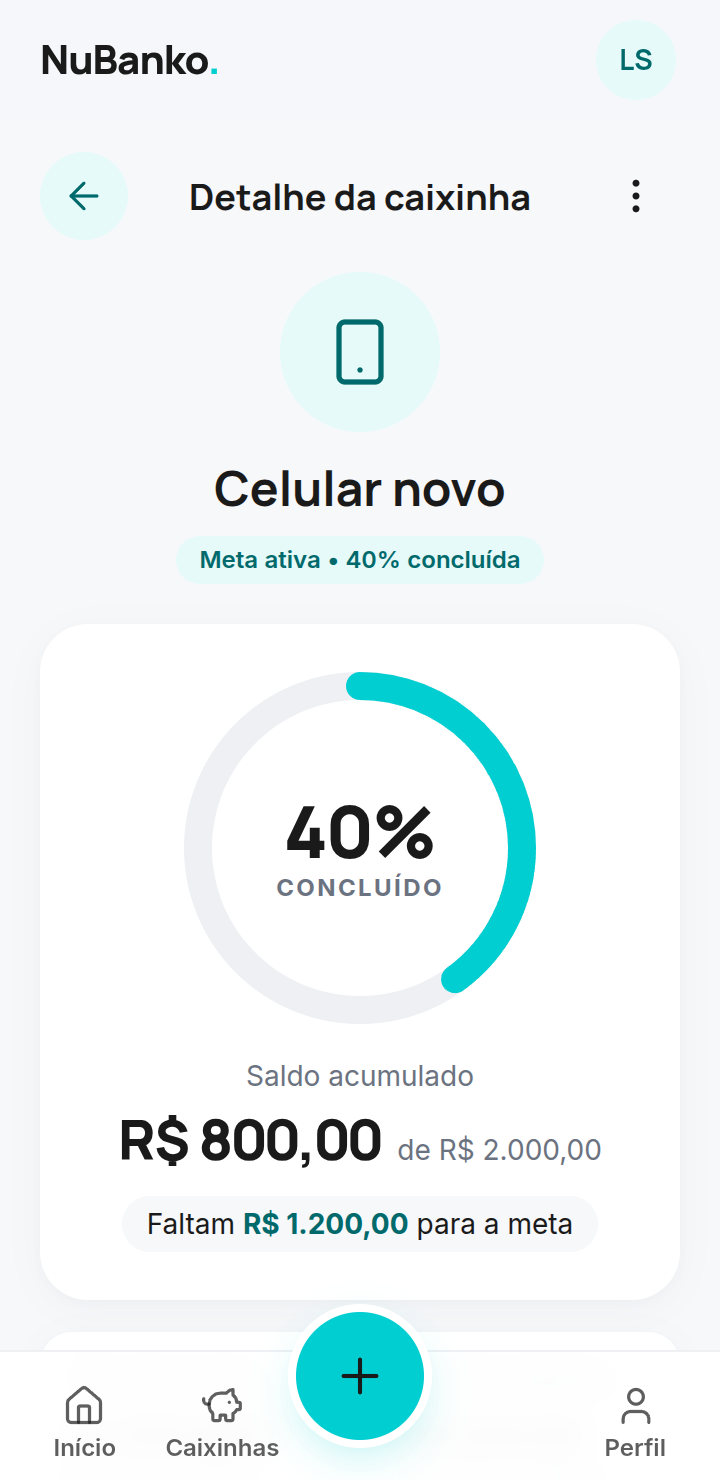
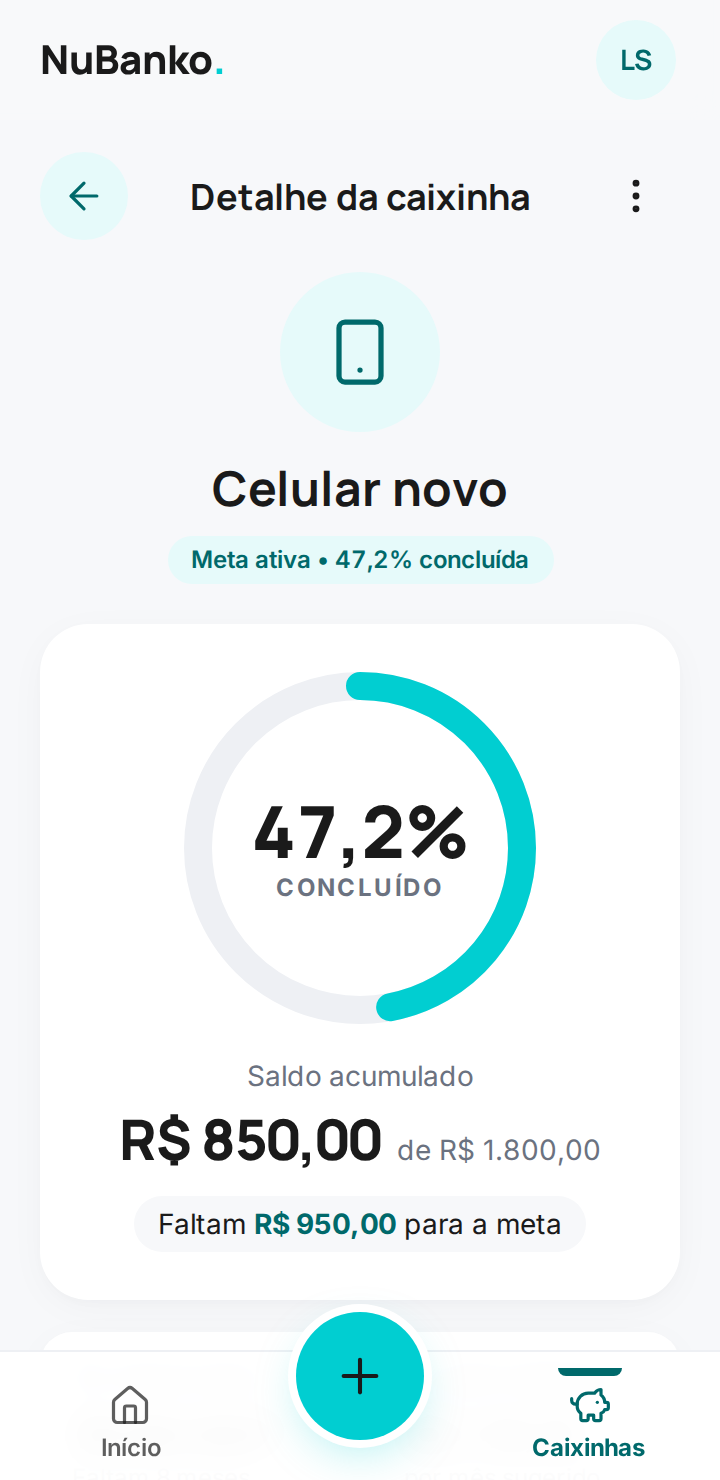
docs: README da versão 1.0.3 com o app publicado e contas de demonstração
Troca as instruções de rodar localmente pelo link do app e do projeto na
Netlify, lista as contas de demonstração, atualiza funcionalidades, testes e
cobertura, e refaz as capturas no app publicado (menu sem Perfil).

diff --git a/README.md b/README.md
@@ -12,15 +12,22 @@ registre um gasto em segundos, veja o mês de relance e junte para o que importa
 
 <br>
 
+### [🌐 Abrir o NuBanko](https://nubanko-kodie.netlify.app)
+
+<br>
+
+[![Netlify Status](https://api.netlify.com/api/v1/badges/2f1319c3-51bc-4d0e-b1b1-2566a997ede5/deploy-status)](https://app.netlify.com/projects/nubanko-kodie/deploys)
+![Versão](https://img.shields.io/badge/vers%C3%A3o-1.0.3-01CED1)
 ![Angular](https://img.shields.io/badge/Angular-22-DD0031?logo=angular&logoColor=white)
 ![TypeScript](https://img.shields.io/badge/TypeScript-6-3178C6?logo=typescript&logoColor=white)
 ![Tailwind CSS](https://img.shields.io/badge/Tailwind_CSS-4-06B6D4?logo=tailwindcss&logoColor=white)
 ![PWA](https://img.shields.io/badge/PWA-pronto-5A0FC8?logo=pwa&logoColor=white)
-![Vitest](https://img.shields.io/badge/testes-168_passando-6E9F18?logo=vitest&logoColor=white)
-![Cobertura](https://img.shields.io/badge/cobertura-99%25-01CED1)
+![Netlify](https://img.shields.io/badge/Netlify-Functions_%2B_DB-00C7B7?logo=netlify&logoColor=white)
+![Testes](https://img.shields.io/badge/testes-447_passando-6E9F18?logo=vitest&logoColor=white)
+![Cobertura](https://img.shields.io/badge/cobertura-98%25-01CED1)
 ![Licença MIT](https://img.shields.io/badge/licen%C3%A7a-MIT-yellow)
 
-[Sobre](#-sobre) · [Objetivos](#-objetivos) · [Funcionalidades](#-funcionalidades) · [Telas](#-telas) · [Começando](#-começando) · [Documentação](#-documentação) · [Contribuindo](#-contribuindo)
+[Sobre](#-sobre) · [Objetivos](#-objetivos) · [Funcionalidades](#-funcionalidades) · [Acesse](#-acesse) · [Telas](#-telas) · [Documentação](#-documentação) · [Contribuindo](#-contribuindo)
 
 </div>
 
@@ -75,19 +82,39 @@ O **NuBanko** resolve isso com três coisas, e só três:
 
 | Funcionalidade | Status |
 |----------------|:------:|
+| Cadastro e login com e-mail e senha, sessão em cookie seguro | ✅ |
 | Painel do mês: saldo, entradas, gastos, rosca por categoria e troca de mês | ✅ |
 | Esconder valores com o "olho" (para usar em lugar público) | ✅ |
 | Novo lançamento em bottom sheet com teclado numérico próprio | ✅ |
 | Lista de lançamentos por dia, com editar e excluir | ✅ |
 | Caixinhas: criar, editar, guardar, retirar, sugestão mensal e metas atingidas | ✅ |
-| Perfil, edição do nome e página de privacidade em linguagem simples | ✅ |
-| Login e cadastro (telas prontas, com sessão de demonstração) | 🟡 |
-| Backend na Netlify (Functions + Netlify DB) com regras de acesso por dono (RLS) | 🔜 |
-| Autenticação real com Better Auth | 🔜 |
-| Ambiente local com Docker Compose (Postgres, migrações, pgTAP, Mailpit e `netlify dev`) | ✅ |
-| Testes E2E e de usabilidade com Playwright e axe | 🔜 |
+| Perfil (pelo avatar no topo): editar nome, trocar senha e excluir a conta com todos os dados | ✅ |
+| Página de privacidade em linguagem simples | ✅ |
+| Dados no Netlify DB, com cada pessoa vendo só os próprios dados (RLS) e textos cifrados | ✅ |
+| PWA instalável pelo navegador | ✅ |
+| Recuperação de senha por e-mail | 🟡 |
 
-✅ pronto · 🟡 pronto no front, aguardando backend · 🔜 planejado
+✅ no ar · 🟡 pronto, desligado até configurarmos o envio de e-mail
+
+## 🚀 Acesse
+
+| | |
+|---|---|
+| 🌐 **App** | **[nubanko-kodie.netlify.app](https://nubanko-kodie.netlify.app)** (funciona no navegador do celular e pode ser instalado na tela inicial) |
+| ⚙ **Projeto na Netlify** | [app.netlify.com/projects/nubanko-kodie](https://app.netlify.com/projects/nubanko-kodie) · [deploys](https://app.netlify.com/projects/nubanko-kodie/deploys) |
+| 🏷 **Versão atual** | **1.0.3** · o que mudou em cada versão está no [CHANGELOG](CHANGELOG.md) |
+
+### Contas de demonstração
+
+Entre com uma delas para ver o app já com três meses de uso (setembro a novembro de 2026), ou crie a sua conta em **Criar conta**.
+
+| Pessoa | E-mail | Senha | O que tem |
+|--------|--------|-------|-----------|
+| 👩🏽🎓 Lari, jovem aprendiz | `lari.demo@example.com` | `Nubanko@2026` | Salário de R$ 1.412, gastos do dia a dia e as caixinhas "Celular novo" e "Reserva de emergência" |
+| 👨🏻💻 Pedro, estagiário | `pedro.demo@example.com` | `Nubanko@2026` | Bolsa de R$ 1.800 e um freela, curso, e as caixinhas "Viagem de fim de ano" (quase lá) e "Notebook" |
+| 👩🏾💼 Ana, primeiro emprego | `ana.demo@example.com` | `Nubanko@2026` | Salário de R$ 2.600, aluguel e mercado, "Presente da mãe" (meta atingida) e "Primeiro carro", com uma retirada |
+
+> As contas são **públicas**: qualquer pessoa pode entrar nelas e mudar os dados. Para guardar coisas suas, crie a sua própria conta.
 
 ## 📱 Telas
 
@@ -100,49 +127,8 @@ O **NuBanko** resolve isso com três coisas, e só três:
 <td align="center"><img src="docs/assets/telas/detalhe-caixinha.png" width="190" alt="Detalhe da caixinha"><br><sub><b>Detalhe da caixinha</b></sub></td>
 </tr>
 </table>
-<sub>Capturas reais do app em 360×740, com os dados de demonstração.</sub>
+<sub>Capturas do app publicado, em 360×740, com a conta de demonstração da Lari.</sub>
 </div>
-
-## 🚀 Começando
-
-**Você precisa de:** [Node.js](https://nodejs.org) 26 e npm 11.
-
-```bash
-git clone git@github.com:hullick/Desafio-Kodie-Final.git
-cd Desafio-Kodie-Final/web
-npm install
-npm start
-```
-
-Abra **http://localhost:4200**. O app já entra logado com os dados de demonstração. Se sair, use `lari@exemplo.com` e qualquer senha.
-
-<details>
-<summary><b>📲 Ver no celular</b></summary>
-
-<br>
-
-```bash
-npx ng serve --host 0.0.0.0
-```
-
-No celular, conectado à mesma rede Wi-Fi, abra `http://<ip-do-seu-computador>:4200`.
-
-</details>
-
-<details>
-<summary><b>🧪 Testes e build</b></summary>
-
-<br>
-
-```bash
-npx ng test --watch=false            # testes unitários e de componente
-npx ng test --watch=false --coverage # com cobertura (mínimo de 80%)
-npm run build                        # build de produção (PWA)
-```
-
-</details>
-
-> **Atenção:** por enquanto os dados ficam **em memória**. Recarregar a página volta tudo ao início. O backend na Netlify entra nas próximas etapas.
 
 ## 🏗 Como é feito
 
@@ -150,16 +136,19 @@ npm run build                        # build de produção (PWA)
 |---|---|
 | **Front** | Angular 22 (standalone, signals, zoneless), Tailwind CSS 4, ícones Lucide, PWA |
 | **Arquitetura** | Atomic Design (átomos → moléculas → organismos → templates → páginas) com um **facade** por página |
-| **Dados** | Repositórios abstratos: em memória hoje, API em Netlify Functions em seguida, sem mexer nas telas |
-| **Backend** *(planejado)* | Netlify Functions, Netlify DB (Postgres/Neon) com RLS, Better Auth; hospedagem e deploy previews na Netlify |
-| **Testes** | Vitest e TestBed hoje; Playwright, axe e pgTAP no plano |
+| **Dados** | Repositórios abstratos: as telas falam com a API em Netlify Functions sem saber de onde os dados vêm |
+| **Backend** | Netlify Functions (TypeScript), Netlify DB (Postgres/Neon) com RLS por dono e textos cifrados, autenticação com Better Auth |
+| **Testes** | 226 de unidade e componente (Vitest, 98% de cobertura), 93 da API, 64 do banco (pgTAP) e 64 E2E com Playwright e axe em duas telas de celular |
 | **Método** | Desenvolvimento orientado a specs: spec → plan → testes → código |
+| **Deploy** | Produção na Netlify a cada versão (tag `vX.Y.Z`), pelo GitHub Actions, depois dos testes |
 
 ```
 web/src/app/
 ├── core/    regras puras, tipos, datas, dinheiro e contratos de dados
 ├── ui/      design system: atoms · molecules · organisms · templates
 └── pages/   uma pasta por tela: <nome>.page.ts + <nome>.facade.ts
+netlify/     functions da API (/api/*) e bibliotecas do servidor
+db/          migrações SQL e testes pgTAP
 ```
 
 ## 📚 Documentação
@@ -170,6 +159,8 @@ web/src/app/
 | [Specs](docs/specs/README.md) | O **quê** e o **porquê** de cada funcionalidade, com os requisitos e critérios de usabilidade. |
 | [Plans](docs/plans/) | O **como**: as tarefas de implementação de cada spec. |
 | [Design system](design/nubanko_neo_fintech/DESIGN.md) | Cores, tipografia e componentes. Os mockups estão em `design/`. |
+| [CHANGELOG](CHANGELOG.md) | O que mudou em cada versão. |
+| [API](docs/api/openapi.yaml) | Contrato OpenAPI de `/api/*`. |
 | [Registro de IA](docs/ai/registro-ia.md) | O que foi pedido a ferramentas de IA e o que elas geraram. |
 
 ## 🤝 Contribuindo

diff --git a/CHANGELOG.md b/CHANGELOG.md
@@ -14,6 +14,11 @@ ganha a tag `vX.Y.Z` no `master`. Como lançar uma versão: `DESENVOLVIMENTO.md`
 
 ## [Não lançado]
 
+### Documentação
+- README atualizado para a versão 1.0.3: link do app e do projeto na Netlify, contas de
+  demonstração (Lari, Pedro e Ana, com três meses de dados), funcionalidades no ar, números atuais
+  de testes e cobertura e capturas novas, tiradas do app publicado.
+
 ## [1.0.3] - 2026-11-27
 
 ### Alterado
